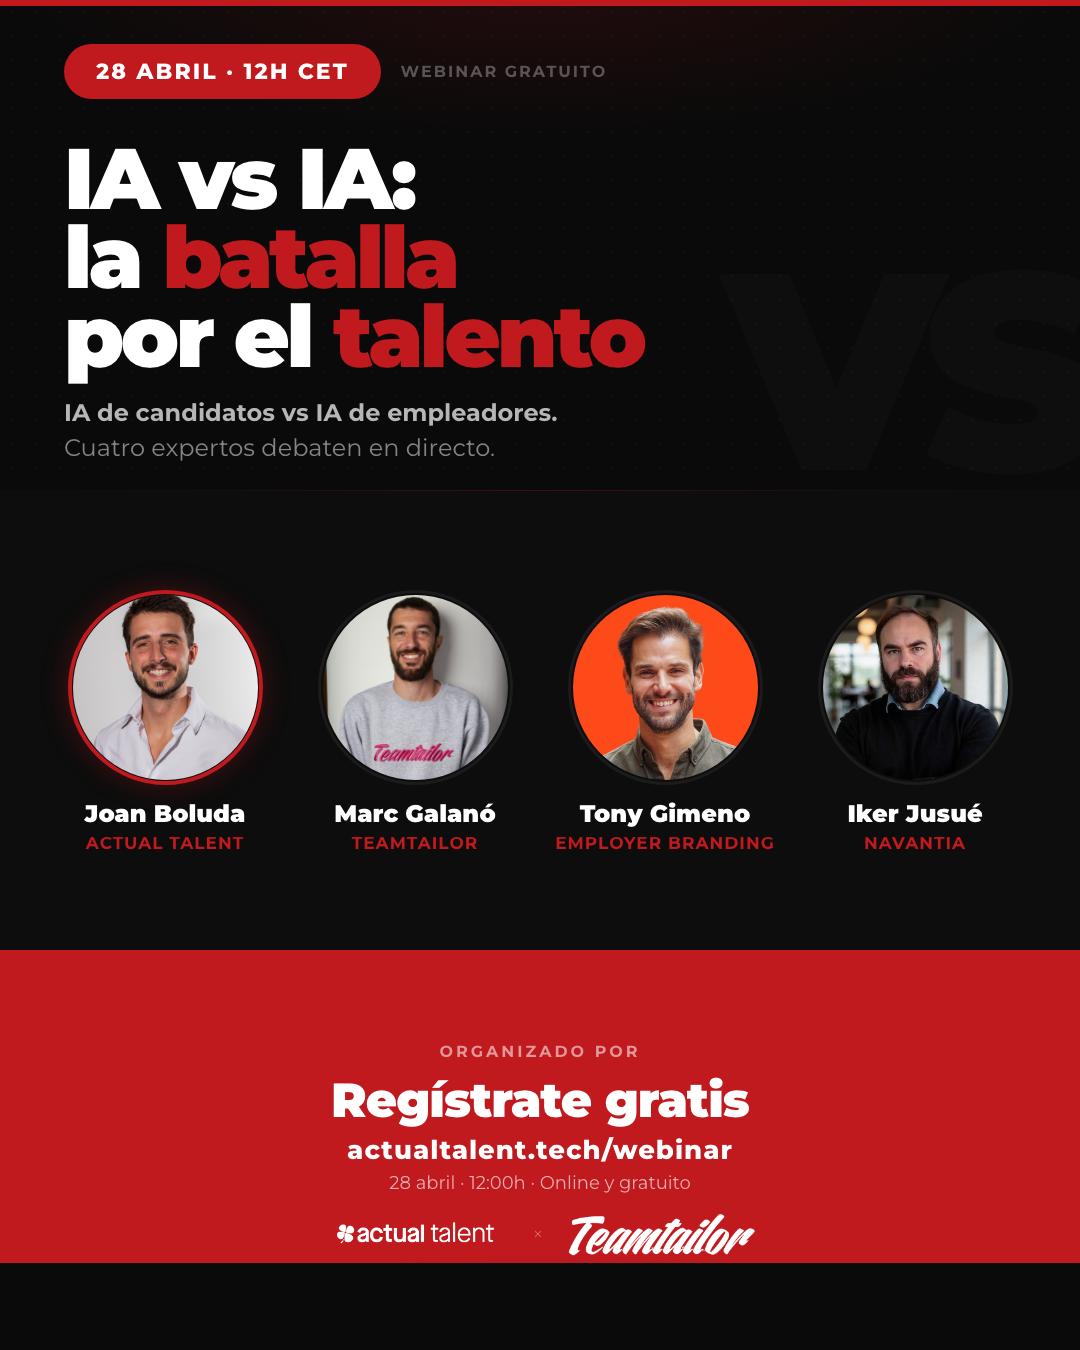
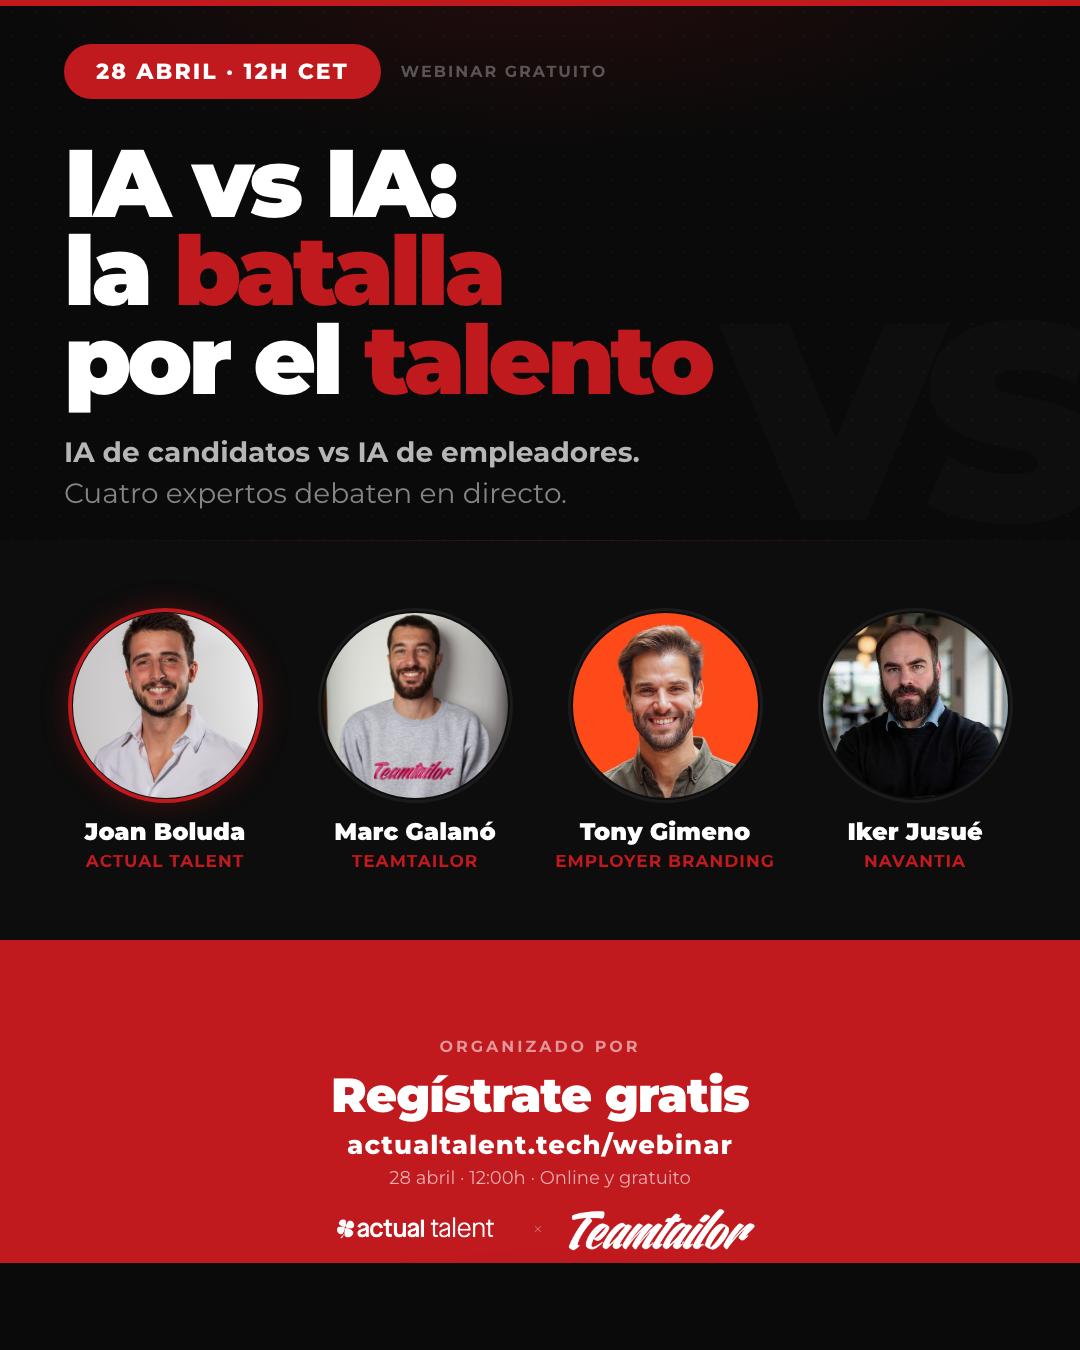
fix: big text restored (96px title, 28px sub, 22px date), speakers band narrower (400px), verified

diff --git a/webinar/flyer/index.html b/webinar/flyer/index.html
@@ -31,7 +31,7 @@ body {
 
 /* ─── TOP: Title ─── */
 .hero {
-  flex: 0 0 490px; position: relative; overflow: hidden;
+  flex: 0 0 540px; position: relative; overflow: hidden;
   background: #0A0A0A;
   background-image: radial-gradient(circle, rgba(255,255,255,0.03) 1px, transparent 1px);
   background-size: 24px 24px;
@@ -68,22 +68,22 @@ body {
 }
 
 .title {
-  font-size: 86px; font-weight: 900; line-height: 0.92;
-  letter-spacing: -0.04em; color: #fff; margin-bottom: 20px;
+  font-size: 96px; font-weight: 900; line-height: 0.92;
+  letter-spacing: -0.04em; color: #fff; margin-bottom: 28px;
 }
 .title em { font-style: normal; color: #C0191E; }
 
 .subtitle {
-  font-size: 24px; font-weight: 400; color: rgba(255,255,255,0.5);
+  font-size: 28px; font-weight: 400; color: rgba(255,255,255,0.5);
   line-height: 1.45;
 }
 .subtitle strong { font-weight: 700; color: rgba(255,255,255,0.7); }
 
 /* ─── MIDDLE: Speakers ─── */
 .speakers {
-  flex: 0 0 460px;
+  flex: 0 0 400px;
   background: #0d0d0d;
-  padding: 48px 40px 40px;
+  padding: 28px 40px 24px;
   position: relative;
   display: flex; flex-direction: column; align-items: center;
 }
@@ -144,7 +144,7 @@ body {
 
 /* ─── BOTTOM: Red CTA ─── */
 .cta-bar {
-  flex: 0 0 400px;
+  flex: 0 0 410px;
   background: #C0191E;
   display: flex; flex-direction: column;
   align-items: center; justify-content: center;
@@ -260,9 +260,7 @@ body {
 </div>
 </div>
 <a href="flyer-linkedin.png" download="IA-vs-IA-Flyer-ActualTalent.png" style="position:fixed;bottom:24px;right:24px;z-index:100;background:#C0191E;color:#fff;padding:12px 24px;border-radius:100px;font-family:Montserrat,sans-serif;font-size:12px;font-weight:700;letter-spacing:1px;text-transform:uppercase;text-decoration:none;box-shadow:0 8px 24px rgba(0,0,0,.4);">↓ Descargar PNG</a>
-<script>
-function s(){var f=document.getElementById("flyer"),r=Math.min(innerWidth/1080,innerHeight/1350,1);f.style.transform="scale("+r+")";f.style.transformOrigin="center center";}s();addEventListener("resize",s);
-</script>
+<script>function s(){var f=document.getElementById("flyer"),r=Math.min(innerWidth/1080,innerHeight/1350,1);f.style.transform="scale("+r+")";f.style.transformOrigin="center center";}s();addEventListener("resize",s);</script>
 </body>
 </html>
 <!-- validation-trigger: 20260319223546 -->
